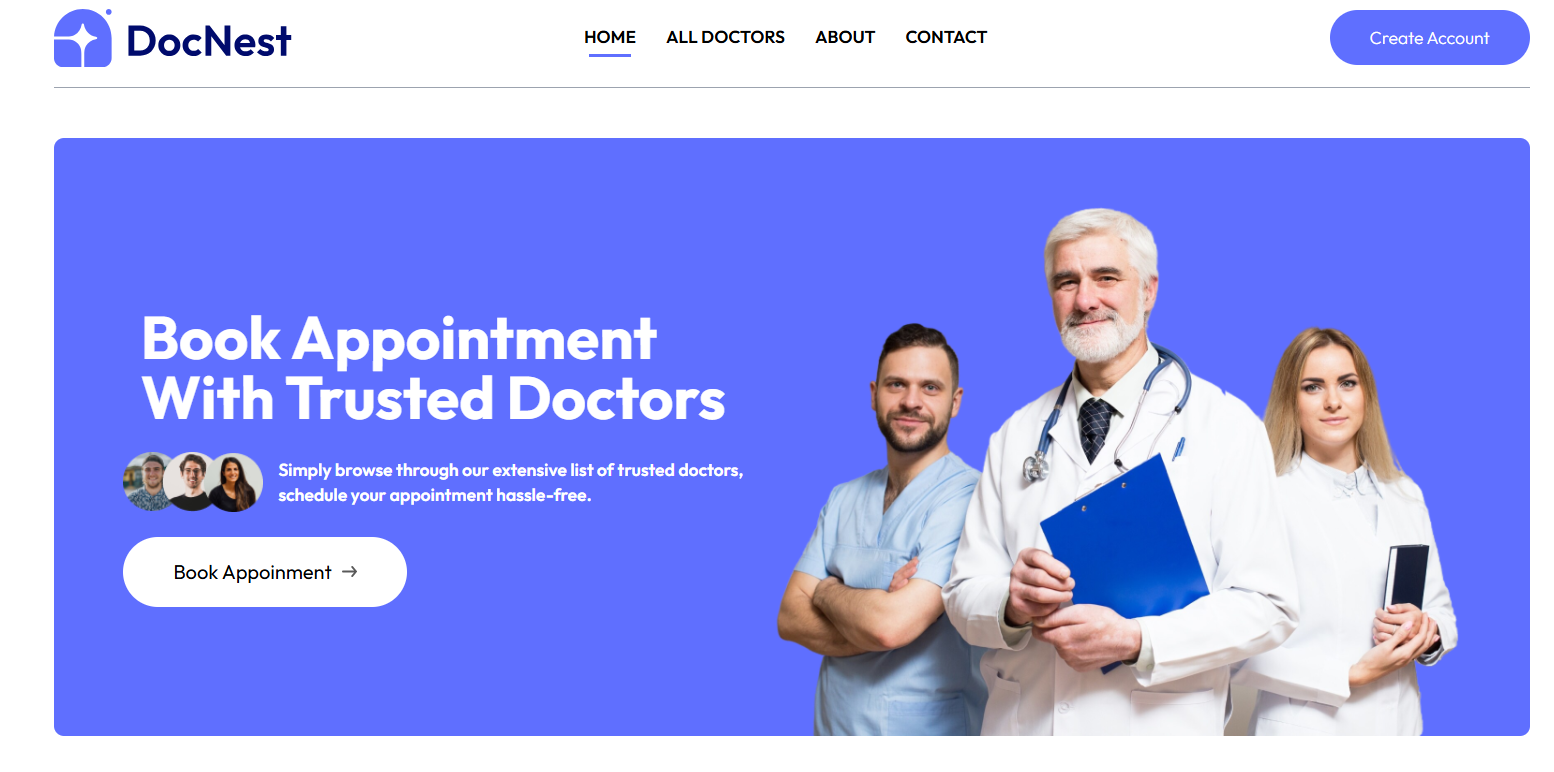
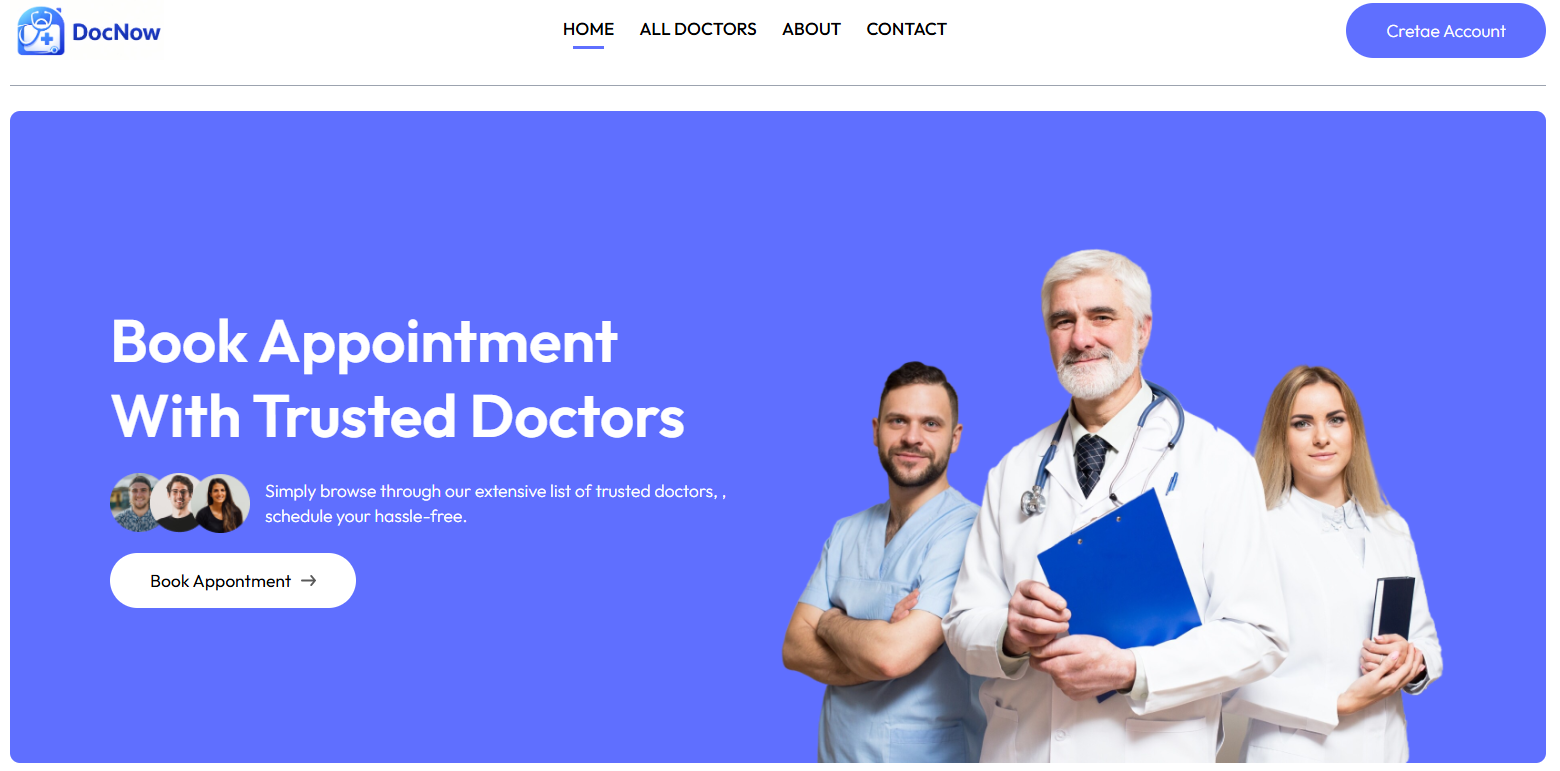
Fevicon updated

diff --git a/frontend/index.html b/frontend/index.html
@@ -2,11 +2,15 @@
 <html lang="en">
   <head>
     <meta charset="UTF-8" />
-    <link rel="icon" type="image/png" href="/favicon.png" />
+    <link rel="icon" type="image/png" href="/logo2.png" />
     <meta name="viewport" content="width=device-width, initial-scale=1.0" />
     <title>Mahasin Prodhan - Portfolio</title>
     <!-- <title>Mahasin Prodhan | Portfolio</title> -->
-    <link rel="icon" type="image/png" href="/favicon.png" />
+    <link rel="icon" type="image/png" sizes="16x16" href="/logo2-16.png" />
+    <link rel="icon" type="image/png" sizes="32x32" href="/logo2-32.png" />
+    <link rel="icon" type="image/png" sizes="96x96" href="/logo2-96.png" />
+    <link rel="icon" type="image/png" sizes="192x192" href="/logo2-192.png" />
+    <link rel="icon" type="image/png" sizes="512x512" href="/logo2-512.png" />
   </head>
   <body>
     <div id="root"></div>

diff --git a/frontend/src/data/projects.js b/frontend/src/data/projects.js
@@ -25,7 +25,7 @@ export const projects = [
     ],
 
     githubLink: "https://github.com/mahasinprodhan/docnow",
-    liveLink: "https://docnest-z4gx.onrender.com/", // keep empty if not deployed
+    liveLink: "https://doc-now-nu.vercel.app/", // keep empty if not deployed
     image: "/projects/docnow.png",
     status: "Completed",
   },
